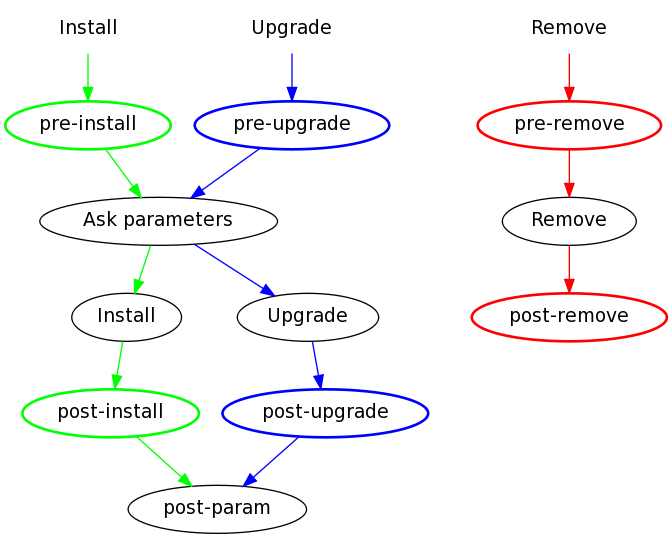
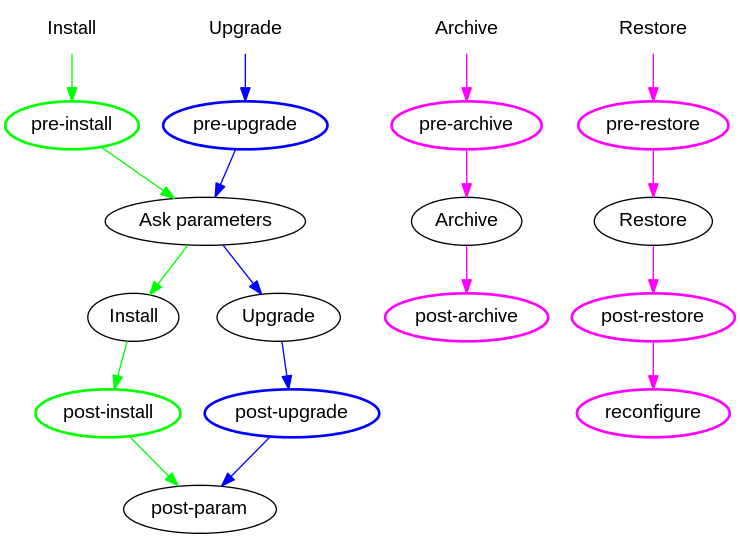
doc(module.md): Update content (refs #3842)(refs #4628)(refs #4629)(refs #4630)(refs #4631)

diff --git a/Contents/module.md b/Contents/module.md
@@ -8,6 +8,38 @@ Pour bien suivre cette présentation, il est souhaitable d'avoir bien en tête
 les notions d'Applications et d'Actions de Dynacase et le fonctionnement
 général de ceux-ci.
 
+## Format d'une archive `webinst`
+
+Une archive `webinst` de module est une archive [TAR][gnu_tar] compressée par
+[GZIP][gzip] avec pour extension `.webinst`.
+
+L'archive contient les éléments suivants :
+
+`content.tar.gz` (requis)
+:   Une archive ([TAR][gnu_tar] compressé [GZIP][gzip]) contenant les fichiers
+    à  déployer dans le contexte.
+    
+    Cette archive est décompressée dans la racine du contexte sous l'identité
+    de l'utilisateur configuré lors de l'installation de dynacase-core.
+    
+    Les chemins des fichiers contenus dans l'archive sont alors relatifs à la
+    racine du contexte.
+
+`info.xml` (requis)
+:   Un fichier au format XML décrivant le module et les opérations à exécuter
+    pour son installation, mise-à-jour, etc.
+    
+    Voir [Fichier `info.xml`][info_xml] pour la description de ce fichier.
+
+`LICENSE` (optionnel)
+:   Un fichier contenant le texte de la licence du module au format texte brut
+    (`text/plain`).
+    
+    Si ce fichier est présent et que la propriété `license` du module est
+    valuée dans le fichier fichier `info.xml`, alors le contenu de ce fichier
+    est présenté à l'utilisateur pour que ce dernier valide la licence du
+    module.
+
 ## Fichier `info.xml` {#manex-ref:22c8b9e1-1a44-42e9-bc6e-68f3373beac6}
 
 Le fichier `info.xml` permet de décrire le module Dynacase en fournissant en
@@ -92,10 +124,14 @@ author
 :   l'auteur du module (ex. `John Doe  <john.doe@example.net>`)  
     *optionnel*
 
-licence
-:   licence du module  
-    *optionnel*
-    <span class="fixme">préciser le fonctionnement (fichier , etc.)</span>
+license
+:   license du module : nom/label de la license du module (ex. `http://www.fsf.org/licensing/licenses/agpl-3.0.html GNU Affero General Public License`).
+    
+    Si un fichier `LICENSE` (contenant le texte de la licence au format
+    text/plain) est présent à la racine de l'archive `.webinst`, alors une
+    fenêtre est ouverte avec le contenu de ce fichier `LICENSE` lorsque le
+    module est installé pour la première fois afin que l'utilisateur accepte
+    la licence. *optionnel*
 
 vendor
 :   fournisseur du module (ex. `ACME Corp.`)  
@@ -114,7 +150,7 @@ Exemple :
         version="1.2.3"
         release="rc1"
         author="John Doe &lt;john.doe@example.net&gt;"
-        licence="GPLV2"
+        license="GPLV2"
         vendor="ACME Corp."
         changelog="https://modules.example.net/changelog/dynacase-foo/1.2.3"
     >
@@ -161,12 +197,12 @@ comp
 
 Exemple :
 
-      [xml]
-      <requires>
-        <installer version="1.0" comp="ge" />
-        <module name="dynacase-bar" version="2.0" comp="ge" />
-        <module name="dynacase-baz" version="1.9" comp="gt" />
-      <requires>
+    [xml]
+    <requires>
+      <installer version="1.0" comp="ge" />
+      <module name="dynacase-bar" version="2.0" comp="ge" />
+      <module name="dynacase-baz" version="1.9" comp="gt" />
+    <requires>
 
 Dans cet exemple, le module requiert un installeur avec une version >= 1.0, le
 module dynacase-bar en version >= 2.0 et le module dynacase-baz en version >1.9.
@@ -325,13 +361,13 @@ onupgrade
 
 Exemple :
 
-      [xml]
-      <parameters>
-        <param name="foo_dir" label="Directory of FOO" type="text" default="/var/foo" needed="yes" />
-        <param name="foo_color" label="Color of FOO" type="enum" values="red|green|blue" default="green" needed="no" />
-      </parameters>
+    [xml]
+    <parameters>
+      <param name="foo_dir" label="Directory of FOO" type="text" default="/var/foo" needed="yes" />
+      <param name="foo_color" label="Color of FOO" type="enum" values="red|green|blue" default="green" needed="no" />
+    </parameters>
 
-## Workflow d'install/upgrade (Pre/post install/upgrade, etc.) {#module-wf-install-upgrade}
+## Workflow d'install/upgrade/archive/restore (Pre/post install/upgrade, etc.) {#module-wf-install-upgrade}
 
 Lors de l'installation, ou de l'upgrade, un ensemble d'actions peuvent être effectués
 avant (pre) et après (post) l'opération suivant l'ordre suivant :
@@ -347,7 +383,7 @@ retourné un statut de réussite.
 
 Si une phase n'est pas validée, alors les messages d'erreurs rencontrés
 sont présenté à l'utilisateur , et celui-ci peut rejouer le check (ou le
-process) après avoir eventuellement corrigé le problème, ou bien il peut
+process) après avoir éventuellement corrigé le problème, ou bien il peut
 choisir d'ignorer les messages d'erreurs et poursuivre l'install/ugprade.
 
 ### Phase pre-install {#manex-ref:a57ff321-d00f-4f55-ba88-6633a686d856}
@@ -451,7 +487,7 @@ Exemple :
     <process command="programs/update_catalog">
       <label lang="en">Re-generate localization catalog</label>
     </process>
-    </post-install>
+    </post-upgrade>
 
 Les actions de post-upgrade serviront généralement à configurer le module qui
 vient d'être installé, lancer les scripts de migration, etc. Une erreur dans la
@@ -464,6 +500,49 @@ Les éléments de reconfigure s'exécutent après la restauration d'un contexte
 depuis une archive.
 
 Les actions possible sont les mêmes que pour les phases de `post-install` ou `post-upgrade`.
+
+### Phase pre-archive {#manex-ref:d31adf2b-c2c6-4536-8473-8cbd415f9228}
+
+Les éléments de pre-archive s'exécutent avant l'archivage d'un contexte.
+
+Les actions possibles sont les mêmes que pour les phases de `post-install` ou
+`post-upgrade`.
+
+Le status d'échec/erreur n'est pas pris en compte et ne bloque pas la
+procédure d'archivage.
+
+### Phase post-archive {#manex-ref:455076b2-2265-43cb-9258-4b18006025e7}
+
+Les éléments de post-archive s'exécutent après l'archivage du contexte.
+
+Les actions possible sont les mêmes que pour les phases de `post-install` ou
+`post-upgrade`.
+
+Le status d'échec/erreur n'est pas pris en compte et ne bloque pas la
+procédure d'archivage.
+
+### Phase pre-restore {#manex-ref:4f34f078-29f8-4097-8bcd-2a429d20c1b6}
+
+Les éléments de pre-restore s'exécutent avant la restauration d'un contexte à
+partir d'une archive.
+
+Les actions possible sont les mêmes que pour les phases de `post-install` ou
+`post-upgrade`.
+
+Le status d'échec/erreur n'est pas pris en compte et ne bloque pas la
+procédure de restauration.
+
+### Phase post-restore {#manex-ref:0b92006c-f874-4cbb-977c-d8c67c0935a8}
+
+Les éléments de post-restore s'exécutent après la restauration d'un contexte à
+partir d'un archive et après l'exécution de la phase de
+[reconfigure][reconfigure].
+
+Les actions possible sont les mêmes que pour les phases de `post-install` ou
+`post-upgrade`.
+
+Le status d'échec/erreur n'est pas pris en compte et ne bloque pas la
+procédure de restauration.
 
 ## Les actions de phase {#manex-ref:66ae8fce-e24c-4e1c-b825-fe0de5d12aee}
 
@@ -478,15 +557,17 @@ phpfunction
     
     Exemple :
 
-        <check type="phpfunction" function="pg_connect" />
+    [xml]
+    <check type="phpfunction" function="pg_connect" />
 
 syscommand
 :   Le check de type `syscommand` permet de vérifier la présence d'une commande disponible sur le système.  
     Le nom de la command testé est spécifié avec l'attribut `command`
     
     Exemple :
-    
-        <check type="syscommand" command="convert" />
+
+    [xml]
+    <check type="syscommand" command="convert" />
 
 phpclass
 :   Le check de type `phpclass` permet de vérifier la présence d'une classe objet PHP.  
@@ -495,22 +576,46 @@ phpclass
     *class* : le nom de la classe
     
     Exemple :
-    
-        <check type="phpclass" include="Net/SMTP.php" class="Net_SMTP" />
+
+    [xml]
+    <check type="phpclass" include="Net/SMTP.php" class="Net_SMTP" />
 
 apachemodule
 :   Le check de type `apachemodule` permet de vérifier qu'un module Apache particulier est activé et chargé par celui-ci.  
     Le nom du module est spécifié par l'attribut `module`.
     
     Exemple :
-    
-        <check type="apachemodule" module="mod_expires" />
+
+    [xml]
+    <check type="apachemodule" module="mod_expires" />
 
 ### Process {#manex-ref:796c1c2a-95b8-4bd6-86dd-4ecada2ea22d}
 
 Les éléments process servent à exécuter des commandes/programmes permettant
 d'effectuer les opérations nécessaires au fonctionnement du module suite à son
 installation.
+
+Si le programme référencé par la propriété `command` commence par un `/`
+(slash), alors le chemin du programme est considéré comme étant absolu. Dans
+le cas contraire, le chemin du programme est préfixé avec le chemin de la
+racine du contexte.
+
+Exemples :
+
+    [xml]
+    <process command="programs/foo arg1 arg2 arg3"
+
+La commande exécutée sera `${WIFF_CONTEXT_ROOT}/programs/foo` avec les
+arguments `arg1`, `arg2` et `arg3`.
+
+    [xml]
+    <process command="/usr/local/bin/foo arg1 arg2 arg3"
+
+La commande exécutée sera `/usr/local/bin/foo` avec les arguments `arg1`,
+`arg2` et `arg3`.
+
+Une ensemble de programmes/commandes sont livrés par défaut et leur
+fonctionnement est décrit ci-dessous.
 
 #### Commande *programs/app_post* {#manex-ref:cc8bc194-900b-427a-9f5c-f4b629e81daa}
 
@@ -545,17 +650,17 @@ Les arguments sont :
 
 Exemple :
 
-      [xml]
-      <post-install>
-        <process command="programs/app_post WEBDESK I" />
-        [...]
-      </post-install>
+    [xml]
+    <post-install>
+      <process command="programs/app_post WEBDESK I" />
+      [...]
+    </post-install>
     
-      <post-upgrade>
-        [...]
-        <process command="programs/app_post WEBDESK U" />
-        [...]
-      </post-upgrade>
+    <post-upgrade>
+      [...]
+      <process command="programs/app_post WEBDESK U" />
+      [...]
+    </post-upgrade>
 
 Le script `<APPNAME>_post` est alors exécuté par `app_post` avec un seul
 argument qui est l'argument `I` ou `U` suivant qu'on est dans une installation
@@ -587,7 +692,8 @@ La ligne de commande est spécifié par l'attribut `command`.
 
 Exemple :
 
-      <process command="programs/record_application FOO" />
+    [xml]
+    <process command="programs/record_application FOO" />
 
 #### Commande *programs/update_catalog* {#manex-ref:a3b5b826-2476-4602-8772-4c8e264de1ed}
 
@@ -609,8 +715,8 @@ messages de localisation.
 
 Exemple :
 
-      [xml]
-      <process command="programs/update_catalog" />
+    [xml]
+    <process command="programs/update_catalog" />
 
 #### Commande *programs/pre_migration* {#manex-ref:1dbb94a3-763f-46f7-bb2d-d7029dcf8592}
 
@@ -632,7 +738,8 @@ pre-migration d'un module lors de sa mise-à-jour.
 
 Exemple :
 
-      <process command="programs/pre_migration" />
+    [xml]
+    <process command="programs/pre_migration" />
 
 #### Commande *programs/post_migration* {#manex-ref:6a525876-dac7-40c3-8f87-01a9bec64837}
 
@@ -654,8 +761,8 @@ post-migration d'un module lors de sa mise-à-jour.
 
 Exemple :
 
-      [xml]
-      <process command="programs/post_migration" />
+    [xml]
+    <process command="programs/post_migration" />
 
 #### Commande *programs/set_param* {#manex-ref:39167ac3-e1e7-4d07-a784-ef9f365a6457}
 
@@ -685,11 +792,11 @@ Exemple :
       [...]
     </post-install>
 
-#### Commande *./wsh.php* {#manex-ref:b7ad8be9-55d9-48e3-80e4-9245d6f4f345}
+#### Commande *wsh.php* {#manex-ref:b7ad8be9-55d9-48e3-80e4-9245d6f4f345}
 
 Prototype :
 
-* `./wsh.php`
+* `wsh.php`
 
 Utilisable dans les phases :
 
@@ -701,12 +808,13 @@ Conditions d'utilisation :
 * Le programme peut être utilisé à n'importe quel moment en fonction des
   besoins
 
-Le programme `./wsh.php` est utilisé pour exécuter des méthodes sur des classes
+Le programme `wsh.php` est utilisé pour exécuter des méthodes sur des classes
 documentaires et exécuter des API Dynacase.
 
 Exemple :
 
-      <process command="./wsh.php --api=refreshDocuments --method=postModify --famid=FOO" />
+    [xml]
+    <process command="wsh.php --api=refreshDocuments --method=postModify --famid=FOO" />
 
 #### Programmes personnalisés {#manex-ref:afc3d392-bd87-418a-af0e-ceb8924e74a2}
 
@@ -860,6 +968,7 @@ Dans une action `download`, les propriétés suivantes supportent l'évaluation 
 
 Exemple :
 
+    [xml]
     <download href="... @PARAM_NAME ..." />
 
 #### Action *process* {#manex-ref:132a458a-2fd4-4a9b-847d-e44a0e48a870}
@@ -870,6 +979,7 @@ Dans une action `process`, les propriétés suivantes supportent l'évaluation d
 
 Exemple :
 
+    [xml]
     <process command="... @PARAM_NAME ..." />
 
 #### Action *check* de type *exec* {#manex-ref:461dd848-f425-4b8d-80ce-eaeb63cba2a5}
@@ -880,5 +990,11 @@ Dans une action `check` de type `exec`, les propriétés suivantes supportent l'
 
 Exemple :
 
+    [xml]
     <check type="exec" cmd="... @PARAM_NAME ..." />
 
+<!-- links -->
+[gnu_tar]: https://www.gnu.org/software/tar/
+[gzip]: http://www.gzip.org/
+[info_xml]: #manex-ref:22c8b9e1-1a44-42e9-bc6e-68f3373beac6
+[reconfigure]: #manex-ref:d3679ce1-5475-4de2-a816-b399d881e5c0
